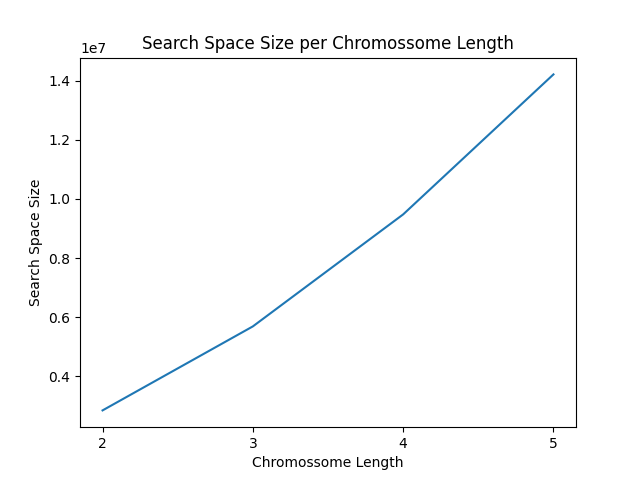
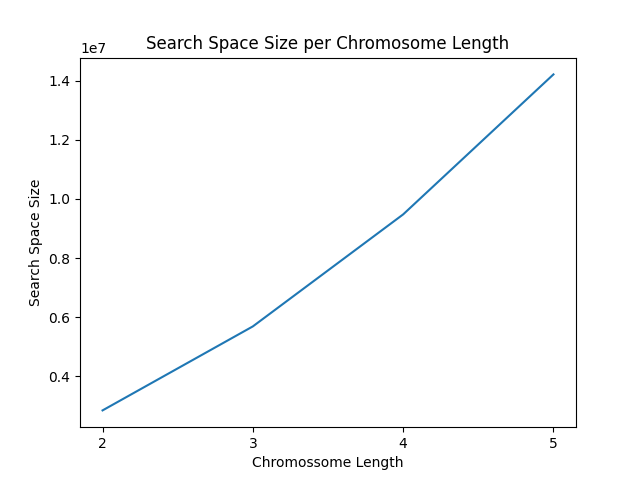
Minor bugs in plots fixed

Changed region(s): [[0.2188, 0.0625, 0.8125, 0.125]]

diff --git a/code/run_generate_plots.py b/code/run_generate_plots.py
@@ -106,7 +106,7 @@ for dataset_idx, dataset_folder_name in enumerate(datasets):
     
     # Generate plot with best individual fitnesse per phase
     # Plot Title
-    plt.title(f"Search Space Size per Chromossome Length")
+    plt.title(f"Search Space Size per Chromosome Length")
     # Plot Axis Labels
     plt.xlabel("Chromossome Length")
     plt.ylabel("Search Space Size")
@@ -269,6 +269,7 @@ for dataset_idx, dataset_folder_name in enumerate(datasets):
         plt.scatter(generations, fitnesses)
         plt.savefig(fname=os.path.join(results, dataset_folder_name, f"ind_fit_per_gen_single_phase_{phase}.png"))
         plt.show()
+        
 
 # Finish statement
 print(f"Finished.")
